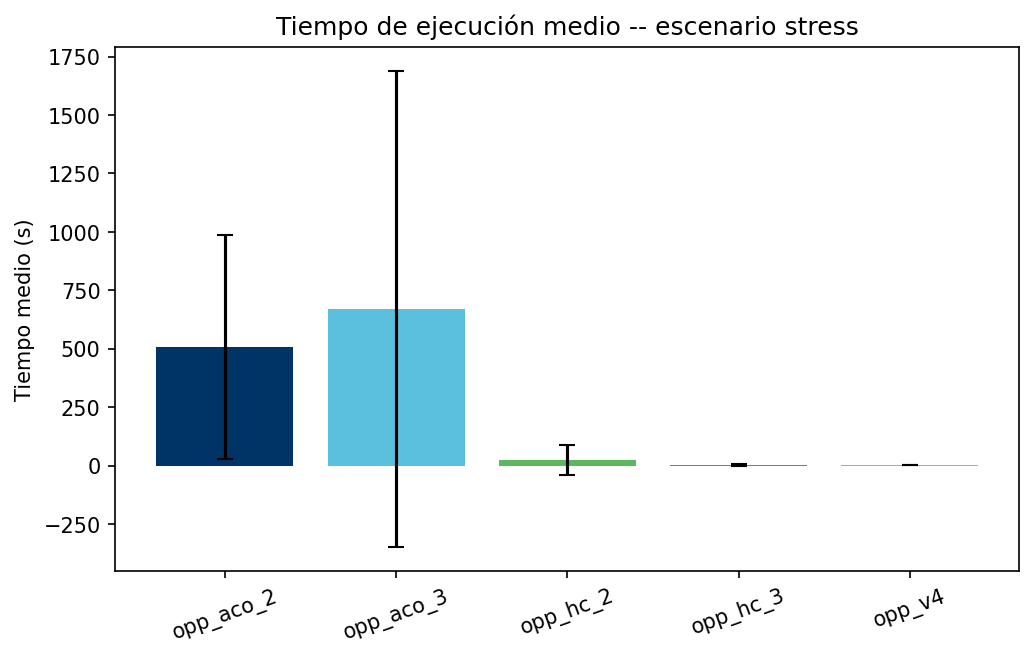
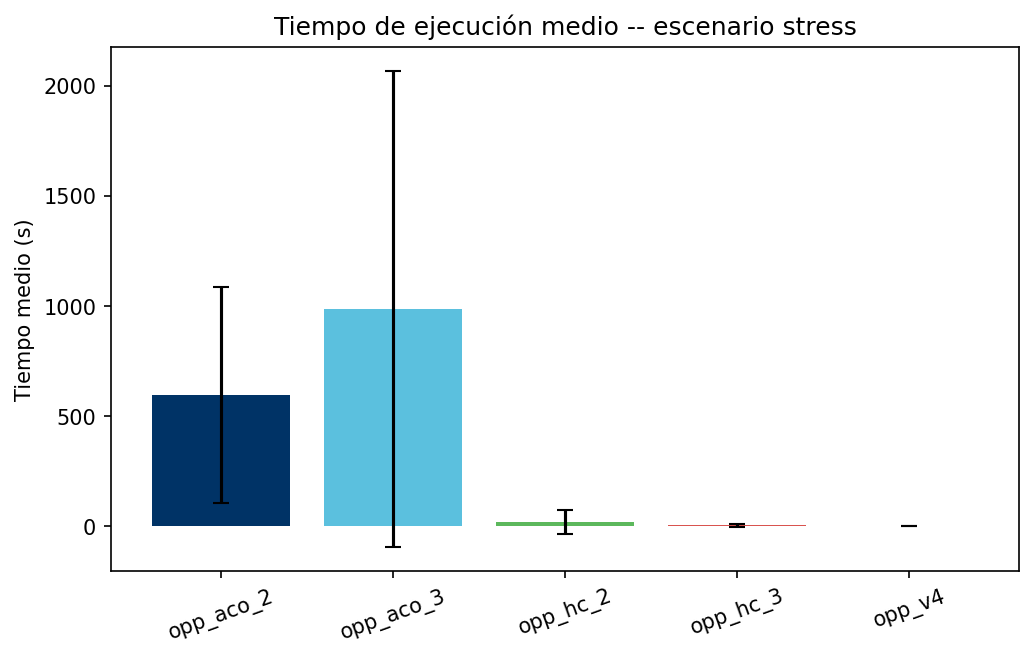
Run analysis

diff --git a/analysis/output/report.md b/analysis/output/report.md
@@ -5,13 +5,13 @@
 | model | scenario | total | ok | timeout | failed | success_rate_pct |
 | --- | --- | --- | --- | --- | --- | --- |
 | opp_aco_2 | normal | 48 | 48 | 0 | 0 | 100.0 |
-| opp_aco_2 | stress | 11 | 8 | 2 | 1 | 72.7 |
+| opp_aco_2 | stress | 20 | 15 | 4 | 1 | 75.0 |
 | opp_aco_3 | normal | 12 | 12 | 0 | 0 | 100.0 |
-| opp_aco_3 | stress | 11 | 4 | 5 | 2 | 36.4 |
+| opp_aco_3 | stress | 20 | 7 | 10 | 3 | 35.0 |
 | opp_hc_2 | normal | 46 | 46 | 0 | 0 | 100.0 |
-| opp_hc_2 | stress | 34 | 23 | 11 | 0 | 67.6 |
+| opp_hc_2 | stress | 43 | 32 | 11 | 0 | 74.4 |
 | opp_hc_3 | normal | 6 | 6 | 0 | 0 | 100.0 |
-| opp_hc_3 | stress | 11 | 8 | 3 | 0 | 72.7 |
+| opp_hc_3 | stress | 20 | 17 | 3 | 0 | 85.0 |
 | opp_v4 | normal | 44 | 43 | 1 | 0 | 97.7 |
 | opp_v4 | stress | 8 | 1 | 7 | 0 | 12.5 |
 
@@ -20,13 +20,13 @@
 | model | scenario | mean_time | std_time | max_time | n |
 | --- | --- | --- | --- | --- | --- |
 | opp_aco_2 | normal | 0.23610588908195493 | 0.327672399058028 | 1.4354429244995115 | 48 |
-| opp_aco_2 | stress | 508.2595696747303 | 479.06542914003273 | 1444.3947761058807 | 8 |
+| opp_aco_2 | stress | 595.1063223203023 | 489.855367722978 | 1636.7055459022522 | 15 |
 | opp_aco_3 | normal | 0.025555570920308385 | 0.04387347950663957 | 0.1223242282867431 | 12 |
-| opp_aco_3 | stress | 669.5413167476654 | 1018.6434971662344 | 2185.4849269390106 | 4 |
+| opp_aco_3 | stress | 985.4330116680691 | 1080.529310656214 | 2274.397418022156 | 7 |
 | opp_hc_2 | normal | 0.008851419324460201 | 0.0043273053102638 | 0.0224010944366455 | 46 |
-| opp_hc_2 | stress | 23.28625359742538 | 63.480850213385985 | 296.41067695617676 | 23 |
+| opp_hc_2 | stress | 18.320306666195393 | 54.18233231800621 | 296.41067695617676 | 32 |
 | opp_hc_3 | normal | 0.0038505395253499003 | 0.002514931435436244 | 0.0064420700073242 | 6 |
-| opp_hc_3 | stress | 2.6666124165058136 | 3.0417344777546083 | 8.85811710357666 | 8 |
+| opp_hc_3 | stress | 4.956314185086419 | 6.819183207581754 | 22.079998254776 | 17 |
 | opp_v4 | normal | 2.5023141295410865 | 7.092974958272934 | 29.40972781181335 | 43 |
 | opp_v4 | stress | 0.1135659217834472 | nan | 0.1135659217834472 | 1 |
 
@@ -53,11 +53,11 @@
 | opp_aco_2 | normal | nan | nan | nan | 0 | False |
 | opp_aco_2 | stress | nan | nan | nan | 0 | False |
 | opp_aco_3 | normal | 0.75 | 1.5 | 3.0 | 4 | True |
-| opp_aco_3 | stress | 0.6666666666666666 | 1.1547005383792517 | 2.0 | 3 | True |
+| opp_aco_3 | stress | 0.3333333333333333 | 0.816496580927726 | 2.0 | 6 | True |
 | opp_hc_2 | normal | nan | nan | nan | 0 | False |
 | opp_hc_2 | stress | nan | nan | nan | 0 | False |
 | opp_hc_3 | normal | 1.0 | 1.7320508075688772 | 3.0 | 3 | True |
-| opp_hc_3 | stress | 2.5714285714285716 | 3.2071349029490928 | 6.0 | 7 | True |
+| opp_hc_3 | stress | 1.125 | 2.4186773244895647 | 6.0 | 16 | True |
 | opp_v4 | normal | nan | nan | nan | 0 | False |
 | opp_v4 | stress | nan | nan | nan | 0 | False |
 
@@ -66,9 +66,9 @@
 | scenario | mean_time_overhead_pct | n_matched | aware_model | baseline_model |
 | --- | --- | --- | --- | --- |
 | normal | -15.574779336779315 | 1 | opp_hc_3 | opp_hc_2 |
-| stress | -26.515760355899374 | 7 | opp_hc_3 | opp_hc_2 |
+| stress | 0.04639007306842391 | 16 | opp_hc_3 | opp_hc_2 |
 | normal | 99.5794968744288 | 1 | opp_aco_3 | opp_aco_2 |
-| stress | 236.52930857530566 | 4 | opp_aco_3 | opp_aco_2 |
+| stress | 262.6264325416152 | 7 | opp_aco_3 | opp_aco_2 |
 
 ## 6. Sensibilidad paramétrica (correlación de Pearson con total_time)
 
@@ -76,10 +76,10 @@
 
 | model | N | V | B | C_v | W_full | W_ea_ta | n |
 | --- | --- | --- | --- | --- | --- | --- | --- |
-| opp_aco_2 | 0.3745 | 0.8742 | 0.3821 | 0.3275 | 0.4978 | -0.318 | 56 |
-| opp_aco_3 | 0.9956 | 0.2727 | 0.6532 | 0.9725 | 0.4728 | -0.1787 | 8 |
-| opp_hc_2 | 0.5506 | 0.7671 | 0.2891 | 0.6387 | 0.2459 | -0.1757 | 69 |
-| opp_hc_3 | 0.3647 | 0.4222 | 0.0525 | 0.769 | 0.4388 | -0.2266 | 11 |
+| opp_aco_2 | 0.4027 | 0.8408 | 0.4114 | 0.5707 | 0.5721 | -0.3943 | 63 |
+| opp_aco_3 | 0.7032 | 0.5954 | 0.3755 | 0.851 | 0.5107 | -0.2136 | 11 |
+| opp_hc_2 | 0.5505 | 0.7019 | 0.2855 | 0.5819 | 0.2203 | -0.1631 | 78 |
+| opp_hc_3 | 0.2439 | 0.314 | 0.0174 | 0.5458 | 0.2783 | -0.152 | 20 |
 | opp_v4 | 0.7512 | 0.4409 | 0.9152 | -0.0178 | 0.4444 | -0.387 | 23 |
 
 ### 6.2 Nivel escenario
@@ -87,13 +87,13 @@
 | model | scenario | N | V | B | C_v | W_full | W_ea_ta | n |
 | --- | --- | --- | --- | --- | --- | --- | --- | --- |
 | opp_aco_2 | normal | 0.4544 | 0.4759 | 0.5016 | 0.0808 | -0.015 | -0.496 | 48 |
-| opp_aco_2 | stress | -0.0209 | 0.7839 | -0.1306 | -0.051 | nan | nan | 8 |
+| opp_aco_2 | stress | -0.0153 | 0.7145 | -0.1003 | 0.0933 | nan | nan | 15 |
 | opp_aco_3 | normal | 0.2256 | 0.2256 | 0.9256 | -0.6652 | nan | 0.6652 | 4 |
-| opp_aco_3 | stress | 0.996 | -0.1672 | 0.5225 | 0.965 | nan | nan | 4 |
+| opp_aco_3 | stress | 0.6414 | 0.3759 | 0.1614 | 0.7922 | nan | nan | 7 |
 | opp_hc_2 | normal | 0.5745 | 0.3289 | 0.2616 | 0.0451 | -0.077 | -0.4117 | 46 |
-| opp_hc_2 | stress | 0.4892 | 0.7433 | 0.1437 | 0.6158 | 0.0798 | -0.0798 | 23 |
+| opp_hc_2 | stress | 0.5058 | 0.6826 | 0.1746 | 0.5778 | 0.0616 | -0.0616 | 32 |
 | opp_hc_3 | normal | 0.9629 | 0.9629 | nan | 0.9629 | nan | -0.9629 | 3 |
-| opp_hc_3 | stress | 0.2525 | 0.2875 | -0.1769 | 0.7272 | nan | nan | 8 |
+| opp_hc_3 | stress | 0.1684 | 0.2321 | -0.1067 | 0.4888 | nan | nan | 17 |
 | opp_v4 | normal | 0.843 | 0.4845 | 0.9182 | -0.0086 | 0.4887 | -0.4204 | 22 |
 
 ## Gráficos generados
